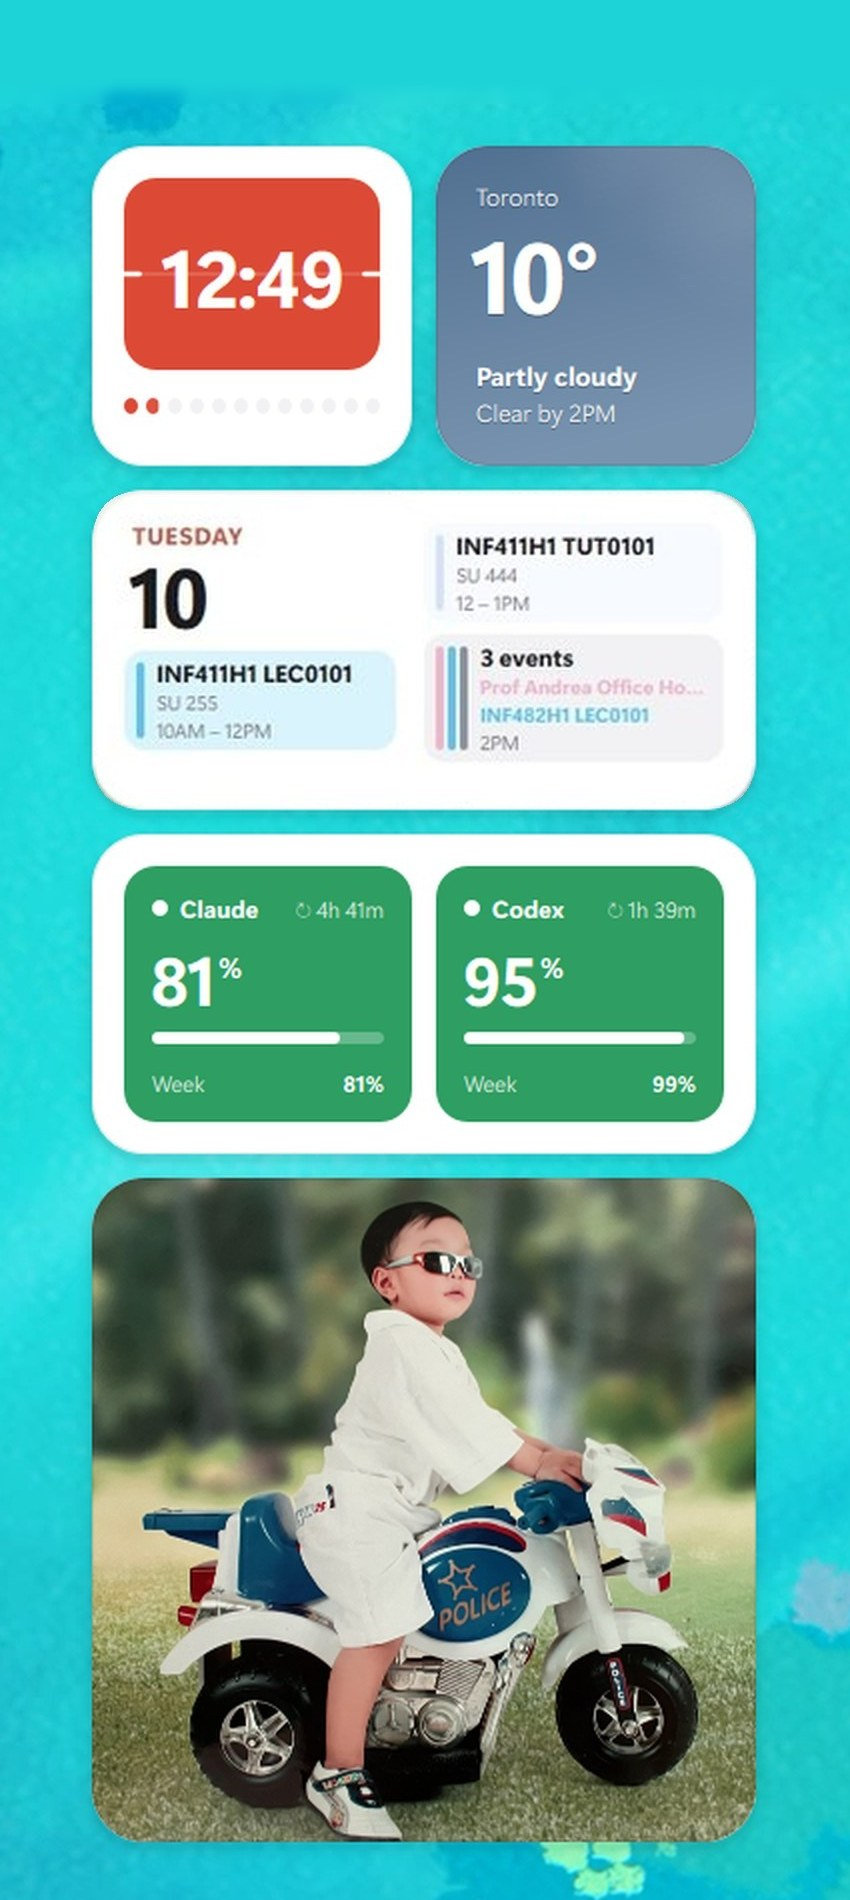
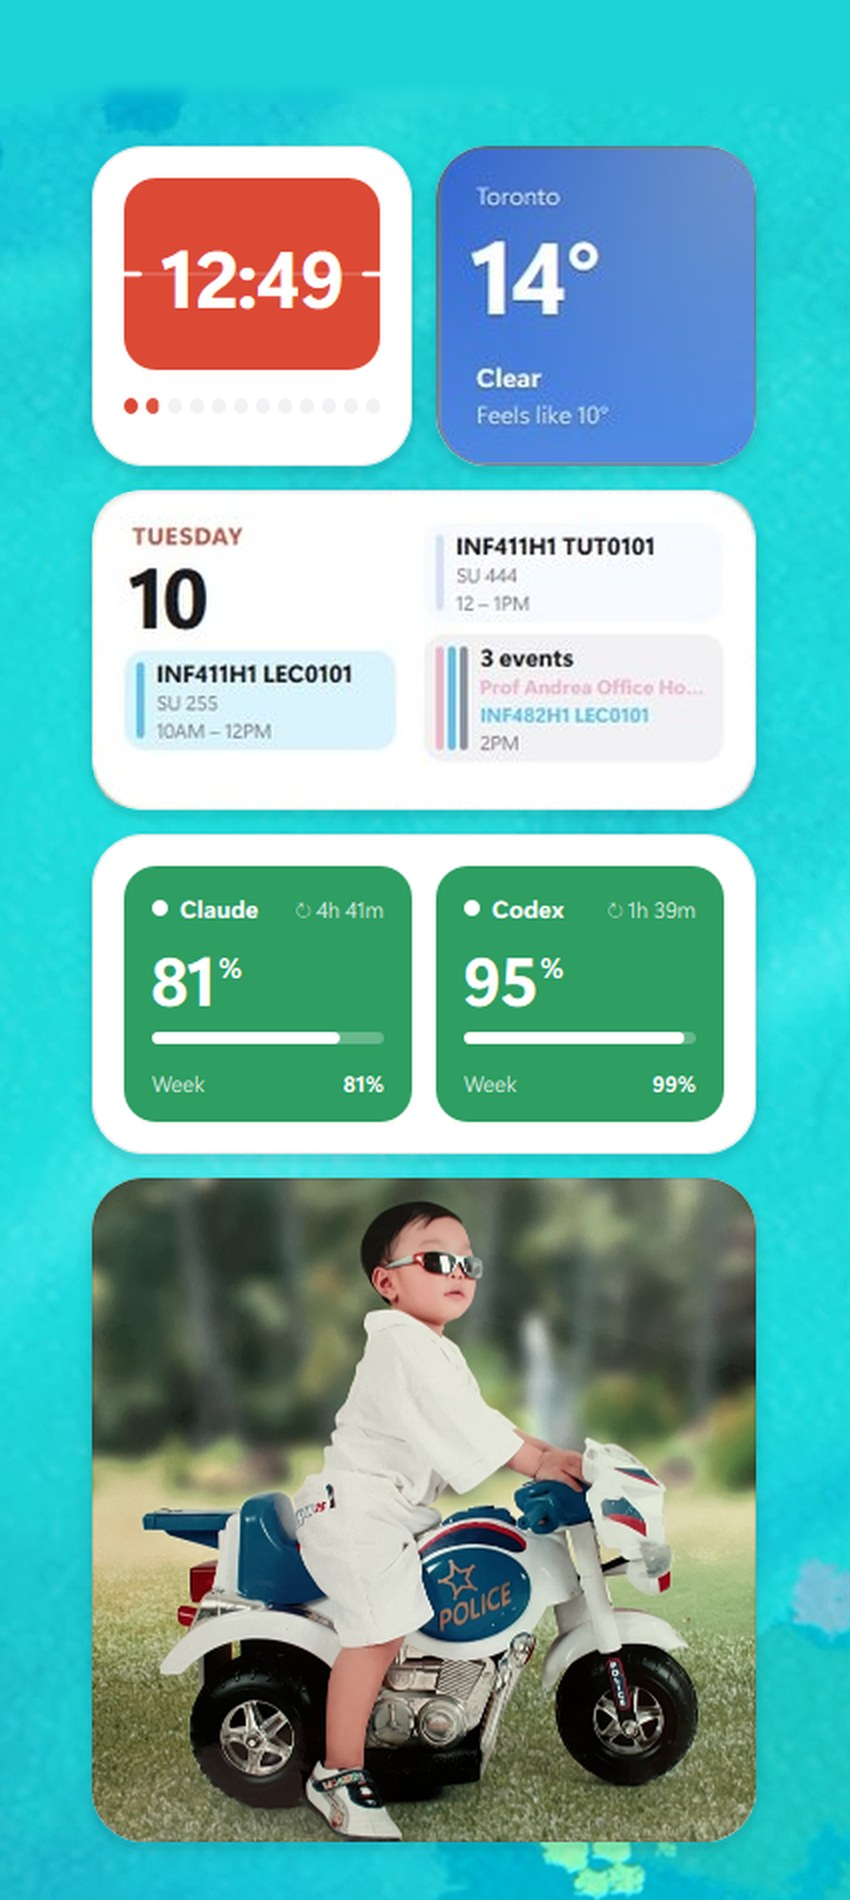
Homepage tags, Vale Base Metals, smaller desk dots, updated widgets photo
Claude-Session: https://claude.ai/code/session_01AoKWSfehjLEhzQ4Gek7h7U

Changed region(s): [[0.52, 0.0621, 0.8871, 0.2484]]

diff --git a/index.html b/index.html
@@ -937,7 +937,7 @@ nav[aria-label="Main"] a.on{color:var(--ink)}
   <header class="hero-intro" id="top" data-view="work">
     <h1>I bring a <span>curious mind</span> and an <span>eye for detail</span> to everything I build.</h1>
     <dl class="experience">
-      <div><dt>Currently</dt><dd>Product Design Co-op @ Vale · Toronto</dd></div>
+      <div><dt>Currently</dt><dd>Product Design Co-op @ Vale Base Metals</dd></div>
       <div><dt>Previously</dt><dd>Product Specialist @ Apple, UX design intern @ TMA Solutions</dd></div>
     </dl>
   </header>
@@ -949,19 +949,19 @@ nav[aria-label="Main"] a.on{color:var(--ink)}
       <a class="proj" href="deskbooking.html">
         <div class="thumb vale-thumb" style="background:#fff"><video src="deskbooking/media/hero.mp4?v=2" poster="deskbooking/media/hero.jpg?v=2" muted loop playsinline autoplay preload="metadata" aria-label="Product video of the desk-booking app: see who is in, pick a day and book a desk" style="width:100%;height:100%;object-fit:cover"></video></div>
         <div class="proj-meta"><div><h3>Designed and launched a desk-booking app with AI, raising check-ins from <span class="num-r">57%</span> to <span class="num-r">82%</span> in 20 days</h3><p>Built for a team of 40 sharing 9 desks, from a team-chat complaint to live in two weeks</p></div><span class="yr">Vale · Present · Case study →</span></div>
-        <div class="skills"><span>Product design</span><span>AI prototyping</span><span>Data analysis</span></div>
+        <div class="skills"><span>Product design</span><span>AI prototyping</span><span>UX research</span><span>Data analysis</span></div>
       </a>
 
       <a class="proj" href="instacart.html">
         <div class="thumb t-sage ic-thumb"><video src="instacart/media/instacart-film.mp4?v=2" poster="instacart/media/instacart-film.jpg?v=2" muted loop playsinline autoplay preload="metadata" aria-label="Animation: past orders are scored and re-ranked into a Buy it again list, shoppers add items, then related products are suggested. Ends on 5x more of the next basket than best-sellers."></video></div>
         <div class="proj-meta"><div><h3>Made grocery reordering <span class="num-r">4x</span> faster for shoppers</h3><p>Suggesting what shoppers will buy again, and new products they might like, from 3.4M Instacart orders</p></div><span class="yr">Instacart · Independent · 2026 · Case study →</span></div>
-        <div class="skills"><span>Product management</span><span>Machine learning</span><span>Python + SQL</span><span>Prototyping</span></div>
+        <div class="skills"><span>Product management</span><span>AI prototyping</span><span>Machine learning</span><span>Python + SQL</span></div>
       </a>
 
       <a class="proj" href="skillswap.html">
         <div class="thumb t-peach"><iframe src="skillswap/card.html" title="" aria-hidden="true" tabindex="-1" loading="lazy" style="position:absolute;inset:0;width:100%;height:100%;border:0;pointer-events:none"></iframe></div>
         <div class="proj-meta"><div><h3>Designed a hobby-supply swap app that scored <span class="num-r">71.7</span> on usability</h3><p>An app for swapping unused hobby supplies with people nearby</p></div><span class="yr">SkillSwap · U of T · 2026 · Case study →</span></div>
-        <div class="skills"><span>UX research</span><span>Product design</span><span>Usability testing</span><span>Prototyping</span></div>
+        <div class="skills"><span>Product design</span><span>AI prototyping</span><span>UX research</span><span>Usability testing</span><span>Figma</span></div>
       </a>
 
 
@@ -989,7 +989,7 @@ nav[aria-label="Main"] a.on{color:var(--ink)}
           </div>
         </div>
         <div class="proj-meta"><div><h3>Helped classmates connect over shared interests, not small talk</h3><p>For students who find it hard to make friends in a big cohort</p></div><span class="yr">TStar · U of T · 2025 · Case study →</span></div>
-        <div class="skills"><span>UX research</span><span>Prototyping</span><span>Usability testing</span><span>Figma</span></div>
+        <div class="skills"><span>UX research</span><span>AI prototyping</span><span>Usability testing</span><span>Figma</span></div>
       </a>
 
       <a class="proj" href="housing.html">
@@ -1028,7 +1028,7 @@ nav[aria-label="Main"] a.on{color:var(--ink)}
     <div class="ab-block">
       <div class="ab-label"><span>Experience</span></div>
       <div class="xp" aria-label="Experience">
-      <div class="xp-row"><span><b>Product Design Co-op · Internal Tools</b> <span>· Vale</span></span><span class="when">2026 – Present</span></div>
+      <div class="xp-row"><span><b>Product Design Co-op</b> <span>· Vale Base Metals</span></span><span class="when">2026 – Present</span></div>
       <div class="xp-row"><span><b>VP of Events</b> <span>· BI Student Association</span></span><span class="when">2025 – 26</span></div>
       <div class="xp-row"><span><b>Product Specialist</b> <span>· Apple</span></span><span class="when">2024 – 25</span></div>
       <div class="xp-row"><span><b>UX/UI Design Intern</b> <span>· TMA Solutions</span></span><span class="when">2023</span></div>

diff --git a/deskbooking.html b/deskbooking.html
@@ -1152,7 +1152,7 @@ details.more .mbody p.t:first-child{margin-top:4px}
 .db-ctx{display:grid;grid-template-columns:1fr 1.15fr;gap:clamp(24px,4vw,56px);align-items:center;background:var(--card);border:1px solid var(--line)}
 .db-big{margin:0;font-family:var(--serif);font-weight:400;font-size:clamp(48px,6.4vw,92px);line-height:1;letter-spacing:-.035em}
 .db-big span{color:var(--red)}
-.db-grid{display:grid;grid-template-columns:repeat(10,1fr);gap:clamp(6px,1vw,14px)}
+.db-grid{display:grid;grid-template-columns:repeat(10,1fr);gap:clamp(6px,.9vw,10px);width:100%;max-width:400px;justify-self:end}@media(max-width:900px){.db-grid{justify-self:start}}
 .db-grid i{aspect-ratio:1;border-radius:50%;background:color-mix(in srgb,var(--ink) 12%,transparent)}
 .db-grid i.on{background:var(--red)}
 .db-cards{display:grid;grid-template-columns:repeat(2,minmax(0,1fr));gap:16px;margin-top:24px}
